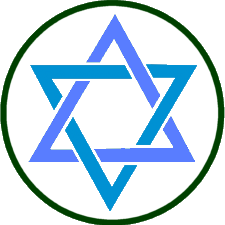
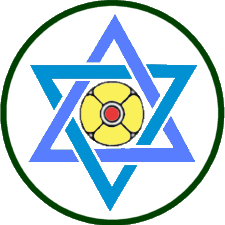
description br, footer also and social, webparts changes, exclude users from learn, change star and heart,

Changed region(s): [[0.3422, 0.3422, 0.6533, 0.6533]]

diff --git a/wp-content/themes/imperishable/css/template.css b/wp-content/themes/imperishable/css/template.css
@@ -18,6 +18,8 @@ body{
 
 #wrap-left { float: left; width: 100%; }
 .jump-to-contents { display: block; }
+#yield-footer div { text-align: center; margin-bottom: 20px; }
+#footer-right { text-align: center; margin-bottom: 20px; }
 @media screen and (min-width: 1000px) {
 	#wrap-left { width: 220px; position: fixed; overflow: auto; }
 	.jump-to-contents { display: none; }
@@ -26,6 +28,7 @@ body{
 	#yield-footer { float: left; margin-left: 20px; }
 	#yield-footer div { float: left; }
 	#yield-footer .center { margin-top: 70px; }
+	#footer-right { float: right; margin-right: 20px; text-align: right; }
 }
 
 #wrap-header{

diff --git a/wp-content/themes/imperishable/css/yield.css b/wp-content/themes/imperishable/css/yield.css
@@ -33,5 +33,5 @@ div.right { float: right; padding: 0 0 20px 20px; }
 .author-block { min-height: 100px; width: 350px; float: left; margin-right: 30px;}
 .author-block .avatar { float: left; margin-right: 20px; }
 
-#yield-footer div { padding: 10px; }
+#yield-footer .center { padding: 0 10px 0 10px; }
 #yield-footer img { border: none; }

diff --git a/wp-content/plugins/wp-biblios/csb-webparts.php b/wp-content/plugins/wp-biblios/csb-webparts.php
@@ -1,21 +1,6 @@
 <?php
 class CSWebParts
 {
-	static function notice()
-	{
-		$defaultNotice = 'Content written for this website is copyleft (<a href="https://creativecommons.org/licenses/by-nc-sa/3.0/" target="_blank">creative commons nc sa</a>). Do respect the copyrights of quoted / published works like books, articles etc';
-		$notices = array(
-			//'share.yieldmore.org' => '',
-			'heal.yieldmore.org' => 'The reader is requested to exercise caution and discretion in using the information provided and is advised not to discontinue any medication he/she may be taking without consulting their doctor. We do not undertake any responsibility for any issues that may arise from following any of the practices mentioned on this website.',
-			'english.yieldmore.org' => 'All music, movies are copyrighted. Content is shared for educational purposes only.',
-			//'learn.yieldmore.org' => '',
-		);
-
-		$dom = str_replace('www.', '', $_SERVER['HTTP_HOST']);
-		$notice = isset($notices[$dom]) ? $notices[$dom] : $defaultNotice;
-		echo '<p>' . $notice . '</p>';
-	}
-
 	static function shell()
 	{
 		$links = array(
@@ -41,7 +26,69 @@ class CSWebParts
 		echo '<p align="center">' . implode(' ', $op) . '</p>';
 	}
 
-	static function link($what)
+	static function notice()
+	{
+		$defaultNotice = 'Content written for this website is copyleft (<a href="https://creativecommons.org/licenses/by-nc-sa/3.0/" target="_blank">creative commons nc sa</a>). Do respect the copyrights of quoted / published works like books, articles etc. <a href="mailto:shasa@cselian.com?subject=contribution - yieldmore" target="_blank">Contributions / alterations</a> welcome.';
+		$notices = array(
+			//'share.yieldmore.org' => '',
+			'heal.yieldmore.org' => 'The reader is requested to exercise caution and discretion in using the information provided and is advised not to discontinue any medication he/she may be taking without consulting their doctor. We do not undertake any responsibility for any issues that may arise from following any of the practices mentioned on this website. <a href="mailto:shasa@cselian.com?subject=heal suggestions - yieldmore" target="_blank">Suggestions</a> welcome.',
+			'english.yieldmore.org' => 'All music and movies are copyrighted. Content is shared for educational purposes (learning english) only. <a href="mailto:shasa@cselian.com?subject=english suggestions - yieldmore" target="_blank">Suggestions</a> welcome.',
+			//'learn.yieldmore.org' => '',
+		);
+
+		$dom = str_replace('www.', '', $_SERVER['HTTP_HOST']);
+		$notice = isset($notices[$dom]) ? $notices[$dom] : $defaultNotice;
+		echo '<p>' . $notice . '</p>';
+	}
+
+	static function social()
+	{
+		$social = array(
+			'Facebook' => 'https://www.facebook.com/groups/YieldMore/',
+			'Google+' => 'https://plus.google.com/b/112530158906132741775/',
+			'LinkedIn' => 'https://www.linkedin.com/company/yieldmore-org',
+			'YouTube' => 'https://www.youtube.com/channel/UC_iHhVADe1oSjP3oAi5bnnw/playlists',
+		);
+
+		$dom = str_replace('www.', '', $_SERVER['HTTP_HOST']);
+		if ($dom == 'learn.yieldmore.org')
+			$social['FB Learn YM'] = 'https://www.facebook.com/groups/LearnYM';
+		else if ($dom == 'heal.yieldmore.org')
+			$social['FB Heal YM'] = 'https://www.facebook.com/groups/HealYM';
+
+		$op = array();
+		foreach ($social as $name=>$url)
+			$op[] = sprintf('<a href="%s" target="_blank">%s</a>', $url, $name);
+		echo '<p>' . implode(' ', $op) . '</p>';
+	}
+
+	static function footer()
+	{?>
+		<div id="yield-footer">
+			<div>
+				<img src="/wp-content/plugins/wp-biblios/assets/images/yield.png" />
+			</div>
+			<div class="center">
+				<?php self::link('Share'); ?><br><br>
+				<?php self::link('Learn'); ?><br><br>
+				<?php self::link('Express'); ?>
+			</div>
+			<div class="center">
+				<img src="/wp-content/plugins/wp-biblios/assets/images/heart.png" />
+			</div>
+			<div class="center">
+				<?php self::link('Heal'); ?><br><br>
+				<?php self::link('Love'); ?><br><br>
+				<?php self::link('Yield More'); ?>
+			</div>
+			<div>
+				<img src="/wp-content/plugins/wp-biblios/assets/images/star.png" />
+			</div>
+		</div>
+	<?php
+	}
+
+	private static function link($what)
 	{
 		$links = array(
 			'Share' => 'share.yieldmore.org',
@@ -54,30 +101,15 @@ class CSWebParts
 		echo sprintf('<a href="http://%s">%s</a>', $links[$what], $what);
 	}
 	
-	static function footer()
-	{?>
-		<div id="yield-footer">
-			<div style="max-width: 250px;">
-				<img src="/wp-content/plugins/wp-biblios/assets/images/yield.png" />
-			</div>
-			<div class="center">
-				<?php self::link('Share'); ?><br><br>
-				<?php self::link('Learn'); ?><br><br>
-				<?php self::link('Express'); ?>
-			</div>
-			<div style="max-width: 120px;" class="center">
-				<img src="/wp-content/plugins/wp-biblios/assets/images/heart.png" />
-			</div>
-			<div class="center">
-				<?php self::link('Heal'); ?><br><br>
-				<?php self::link('Love'); ?><br><br>
-				<?php self::link('Yield More'); ?>
-			</div>
-			<div style="max-width: 250px;">
-				<img src="/wp-content/plugins/wp-biblios/assets/images/star.png" />
-			</div>
-		</div>
-	<?php
+	public static function also()
+	{
+		echo '<br><br>See Also:';
+		$links = array(
+			'Recognize' => 'recognize.yieldmore.org',
+			'Accredit' => 'accredit.yieldmore.org',
+		);
+		foreach ($links as $text=>$url)
+			echo sprintf('<br /><a href="http://%s">%s</a>', $url, $text);
 	}
 }
 ?>

diff --git a/wp-content/themes/imperishable/header.php b/wp-content/themes/imperishable/header.php
@@ -10,10 +10,9 @@
 		// Add the blog name.	
 		bloginfo( 'name' );	
 		// Add the blog description for the home/front page.	
-		$site_description = get_bloginfo( 'description', 'display' );	
-		if ( $site_description && ( is_home() || is_front_page() ) )		
-			echo " &raquo; $site_description"; ?>
-	</title>
+		$site_description = str_replace(' - ',' ', get_bloginfo( 'description'));
+		if ( $site_description && ( is_home() || is_front_page() ) )
+			echo " &raquo; $site_description"; ?></title>
 	<link rel="pingback" href="<?php bloginfo('pingback_url'); ?>" />
 	<link rel="stylesheet" href="<?php echo get_stylesheet_uri(); ?>" type="text/css" />
 	<link rel="stylesheet" href="/wp-content/themes/imperishable/css/yield.css" type="text/css" />
@@ -39,7 +38,7 @@
 			?>
 
 			<h2 id="site-title"><a href="<?php echo esc_url( home_url( '/' ) ); ?>" title="<?php echo esc_attr( get_bloginfo( 'name', 'display' ) ); ?>" rel="home"><?php bloginfo( 'name' ); ?></a></h2>
-			<h3 id="site-description"><?php bloginfo( 'description' ); ?></h3>
+			<h3 id="site-description"><?php echo str_replace(' - ','<br />', get_bloginfo( 'description' )); ?></h3>
 
 			<?php
 				if (!is_user_logged_in()) { echo '<p align="center"><a href="' . wp_login_url() . '">Login / Register</a></p>'; }

diff --git a/wp-content/themes/imperishable/footer.php b/wp-content/themes/imperishable/footer.php
@@ -1,12 +1,14 @@
 </div><!-- wrap-upper -->
 	<div id='wrap-footer' class='clear' style='display: none;'>
+		<div id="footer-right">
+			<a target="_blank" href="https://bitbucket.org/ianamazi/yield/src/master/wp-content/themes/imperishable/?at=master">Imperishable</a><br />
+			by <a target="_blank" href="http://cselian.com/blog/about">Imran</a><br />
+			in <a target="_blank" href="http://wordpress.org/" title="WordPress">WordPress</a>
+			<?php CSWebparts::also(); ?>
+		</div>
 		<div id="footer-about" style="text-align: center;">
-			<p>
-				<a target="_blank" href="https://bitbucket.org/ianamazi/yield/src/master/wp-content/themes/imperishable/?at=master">Imperishable</a><br />
-				by <a target="_blank" href="http://cselian.com/blog/about">Imran</a><br />
-				in <a target="_blank" href="http://wordpress.org/" title="WordPress">WordPress</a>
-			</p>
 			<?php CSWebparts::notice(); ?>
+			<?php CSWebparts::social(); ?>
 		</div><!-- End .themeby .clear -->
 		<?php CSWebparts::footer(); ?>
 	</div><!-- End #wrap-footer -->

diff --git a/wp-content/plugins/wp-biblios/csb-home.php b/wp-content/plugins/wp-biblios/csb-home.php
@@ -7,7 +7,14 @@ function csb_home_query($query)
 	//print_r($query); die();
 	if (get_current_blog_id() != 1 && cs_var('csb_home_query')) return;
 	$query->query_vars['post_type'] = array('page', 'post', 'work');
-	if (get_current_blog_id() == 1) $query->query_vars['post__not_in'] = array(21); // users
+
+	$exclude = array(
+		1 => array(21), //Root: users
+		3 => array(2), //Learn: users
+	);
+	if (isset($exclude[get_current_blog_id()]))
+		$query->query_vars['post__not_in'] = $exclude[get_current_blog_id()];
+
 	$query->query_vars['posts_per_page'] = -1;
 	$query->query_vars['orderby'] = 'ID';
 	cs_var('csb_home_query', true);
